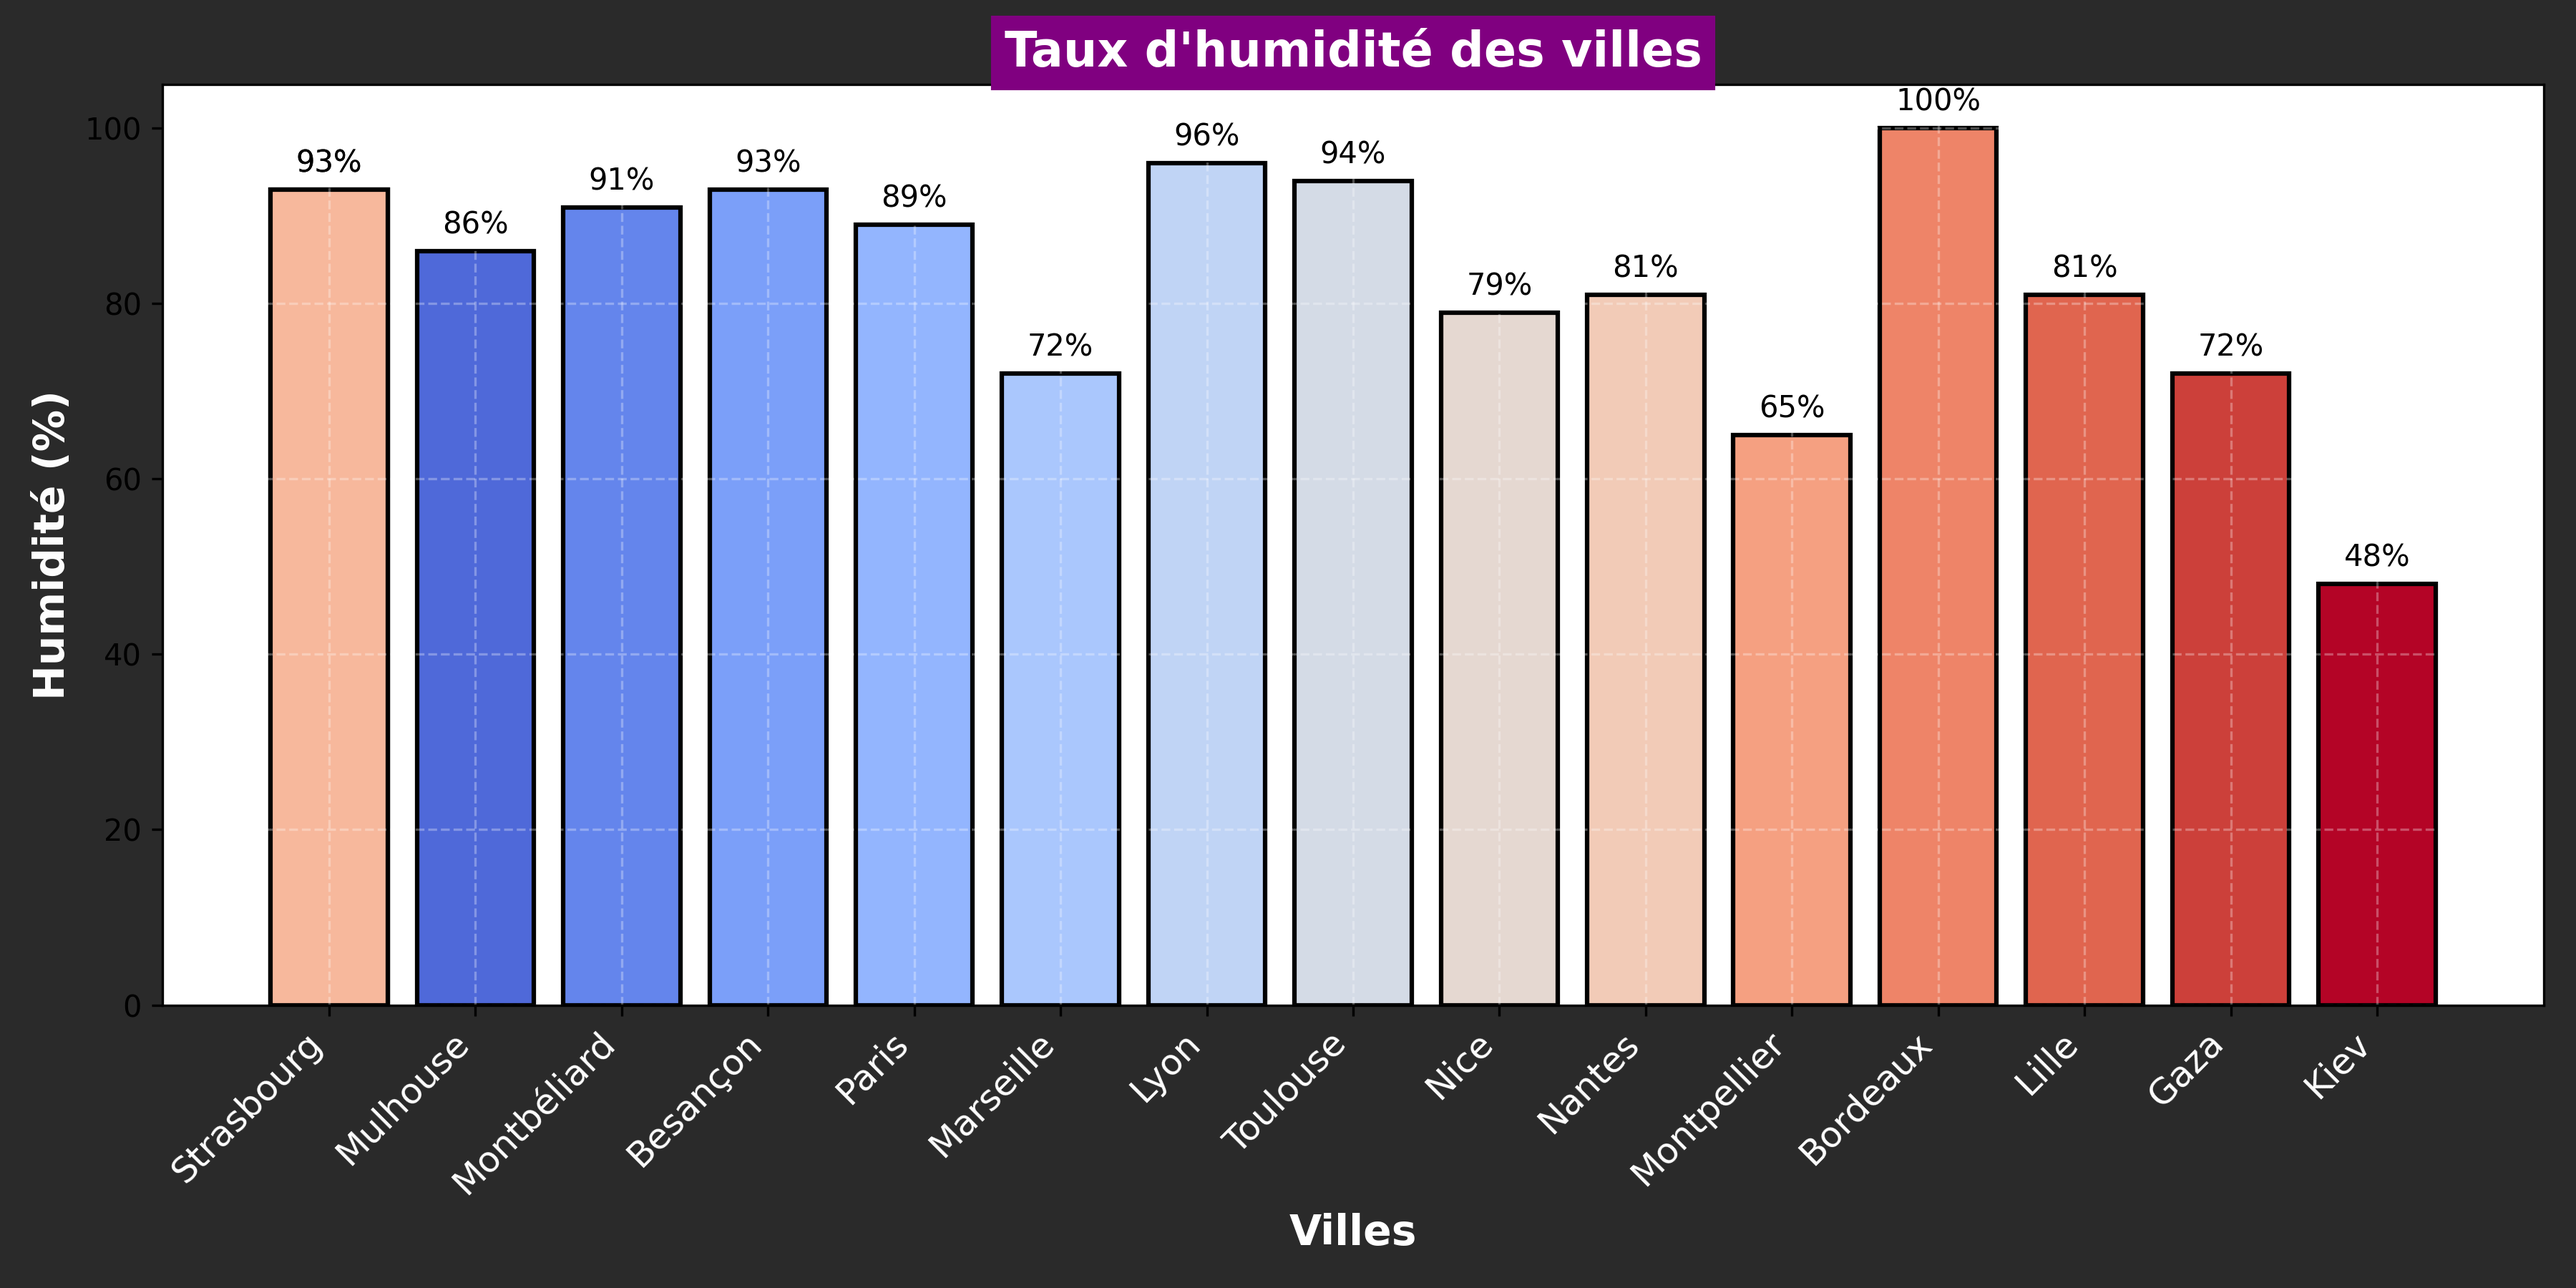
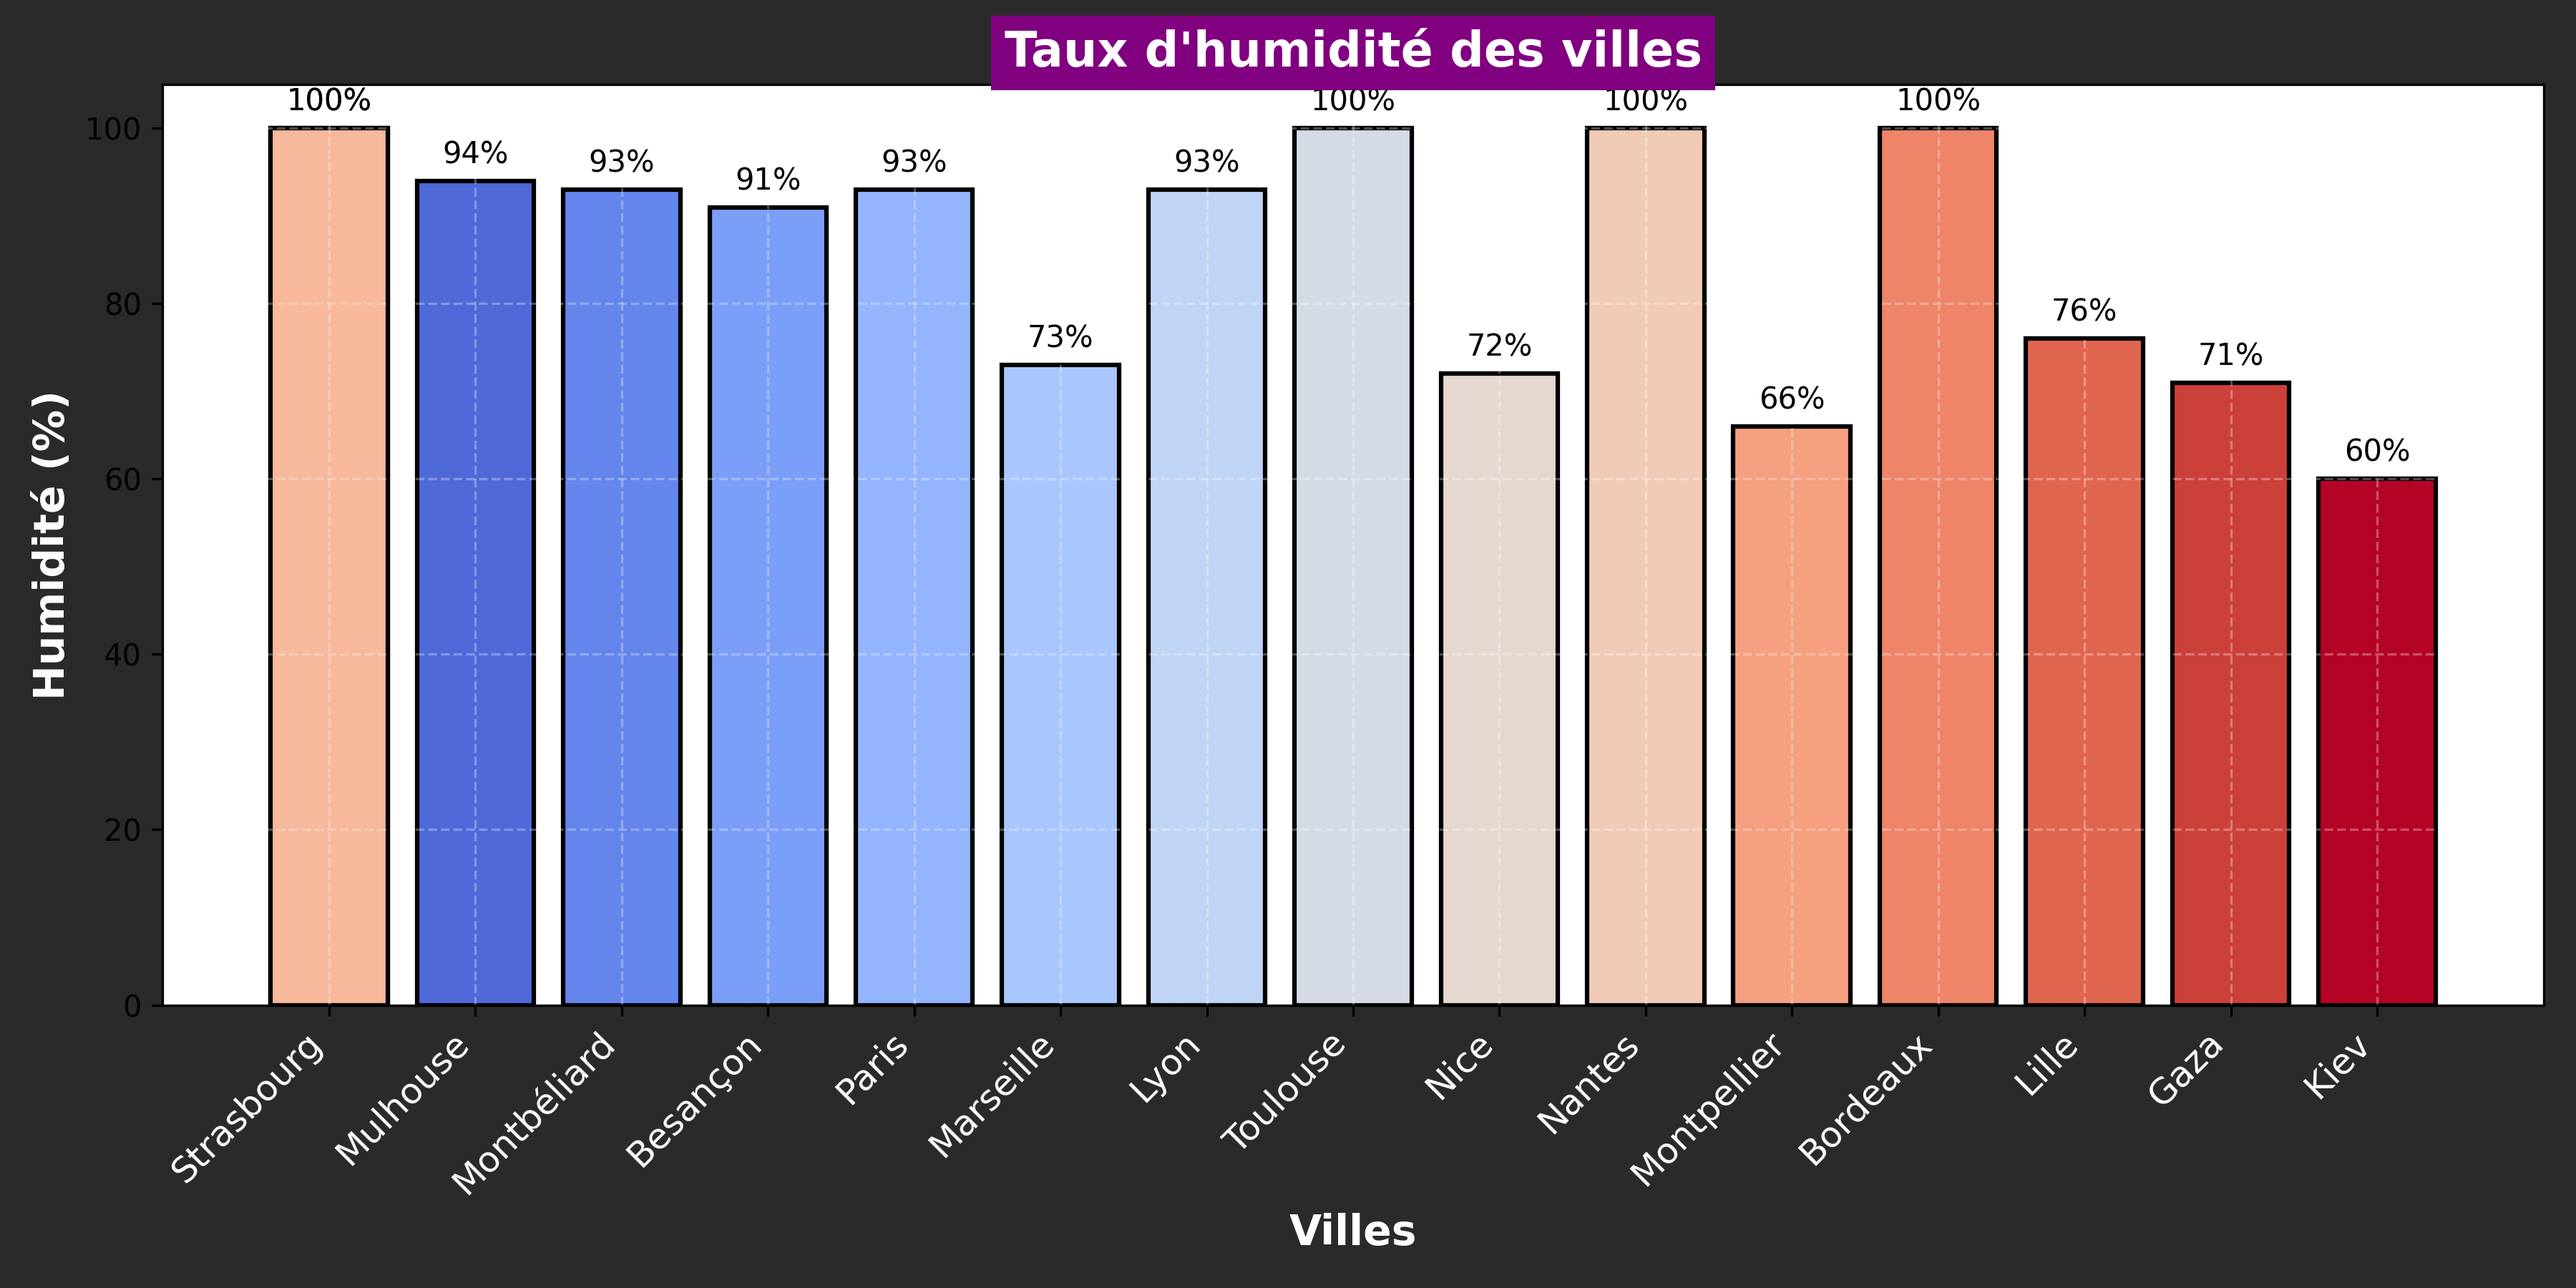
Mise à jour de la météo et ajout du graphique d'humidité

diff --git a/README.md b/README.md
@@ -24,103 +24,103 @@ Ce repo contient plusieurs workflows GitHub Actions :
 ## Météo actuelle :
 ## Météo des grandes villes + Gaza et Kiev 🌍
 
-🕒 Mise à jour : 24/04/2025 08:17:40
+🕒 Mise à jour : 25/04/2025 08:17:14
 
 ### 🌍 Strasbourg 🌥
-**Conditions :** couvert
+**Conditions :** nuageux
 **Température :** 10.02°C
-**Humidité :** 93%
-**Vent :** 1.54 m/s
+**Humidité :** 100%
+**Vent :** 4.12 m/s
 
-### 🌍 Mulhouse 🌥
-**Conditions :** couvert
-**Température :** 9.61°C
-**Humidité :** 86%
-**Vent :** 4.47 m/s
+### 🌍 Mulhouse 🌧
+**Conditions :** légère pluie
+**Température :** 9.49°C
+**Humidité :** 94%
+**Vent :** 4.12 m/s
 
 ### 🌍 Montbéliard 🌥
 **Conditions :** couvert
-**Température :** 9.99°C
-**Humidité :** 91%
-**Vent :** 2.12 m/s
+**Température :** 9.43°C
+**Humidité :** 93%
+**Vent :** 3.58 m/s
 
 ### 🌍 Besançon 🌥
 **Conditions :** couvert
-**Température :** 8.51°C
-**Humidité :** 93%
-**Vent :** 2.97 m/s
+**Température :** 7.96°C
+**Humidité :** 91%
+**Vent :** 1.65 m/s
 
-### 🌍 Paris 🌥
-**Conditions :** nuageux
-**Température :** 10.68°C
-**Humidité :** 89%
-**Vent :** 3.58 m/s
+### 🌍 Paris 🌫
+**Conditions :** brume
+**Température :** 8.82°C
+**Humidité :** 93%
+**Vent :** 2.57 m/s
 
 ### 🌍 Marseille ☀
 **Conditions :** ciel dégagé
-**Température :** 11.17°C
-**Humidité :** 72%
-**Vent :** 4.02 m/s
+**Température :** 10.29°C
+**Humidité :** 73%
+**Vent :** 4.03 m/s
 
 ### 🌍 Lyon 🌥
 **Conditions :** nuageux
-**Température :** 7.11°C
-**Humidité :** 96%
-**Vent :** 0.45 m/s
+**Température :** 6.6°C
+**Humidité :** 93%
+**Vent :** 0.99 m/s
 
-### 🌍 Toulouse 🌥
-**Conditions :** couvert
-**Température :** 11.99°C
-**Humidité :** 94%
-**Vent :** 4.63 m/s
+### 🌍 Toulouse ☀
+**Conditions :** ciel dégagé
+**Température :** 9.99°C
+**Humidité :** 100%
+**Vent :** 0 m/s
 
 ### 🌍 Nice 🌥
-**Conditions :** peu nuageux
-**Température :** 6.94°C
-**Humidité :** 79%
-**Vent :** 2.86 m/s
+**Conditions :** partiellement nuageux
+**Température :** 9.72°C
+**Humidité :** 72%
+**Vent :** 1.27 m/s
 
-### 🌍 Nantes 🌥
-**Conditions :** couvert
-**Température :** 9.96°C
-**Humidité :** 81%
+### 🌍 Nantes 🌫
+**Conditions :** brume
+**Température :** 7.96°C
+**Humidité :** 100%
 **Vent :** 1.54 m/s
 
 ### 🌍 Strasbourg 🌥
-**Conditions :** couvert
+**Conditions :** nuageux
 **Température :** 10.02°C
-**Humidité :** 93%
-**Vent :** 1.54 m/s
+**Humidité :** 100%
+**Vent :** 4.12 m/s
 
 ### 🌍 Montpellier ☀
 **Conditions :** ciel dégagé
-**Température :** 13.61°C
-**Humidité :** 65%
-**Vent :** 7.2 m/s
+**Température :** 12.5°C
+**Humidité :** 66%
+**Vent :** 4.63 m/s
 
-### 🌍 Bordeaux 🌥
-**Conditions :** peu nuageux
-**Température :** 10.15°C
+### 🌍 Bordeaux ☀
+**Conditions :** ciel dégagé
+**Température :** 9.15°C
 **Humidité :** 100%
-**Vent :** 2.06 m/s
+**Vent :** 1.54 m/s
 
-### 🌍 Lille 🌫
-**Conditions :** brume
-**Température :** 10.12°C
-**Humidité :** 81%
-**Vent :** 4.12 m/s
-
-### 🌍 Gaza 🌥
+### 🌍 Lille 🌥
 **Conditions :** couvert
-**Température :** 21.04°C
-**Humidité :** 72%
-**Vent :** 1.77 m/s
+**Température :** 10.86°C
+**Humidité :** 76%
+**Vent :** 3.6 m/s
+
+### 🌍 Gaza ☀
+**Conditions :** ciel dégagé
+**Température :** 20.18°C
+**Humidité :** 71%
+**Vent :** 2.86 m/s
 
 ### 🌍 Kiev 🌥
-**Conditions :** peu nuageux
-**Température :** 22.07°C
-**Humidité :** 48%
-**Vent :** 0.45 m/s
+**Conditions :** partiellement nuageux
+**Température :** 19.78°C
+**Humidité :** 60%
+**Vent :** 1.99 m/s
 
 <p align='center'><img src='https://raw.githubusercontent.com/khoa083/khoa/main/Khoa_ne/img/Rainbow.gif' width='100%' style='border-radius: 5px; border: 3px solid #39FF14; box-shadow: 0 0 10px #39FF14, 0 0 20px #39FF14;' /></p>
 
